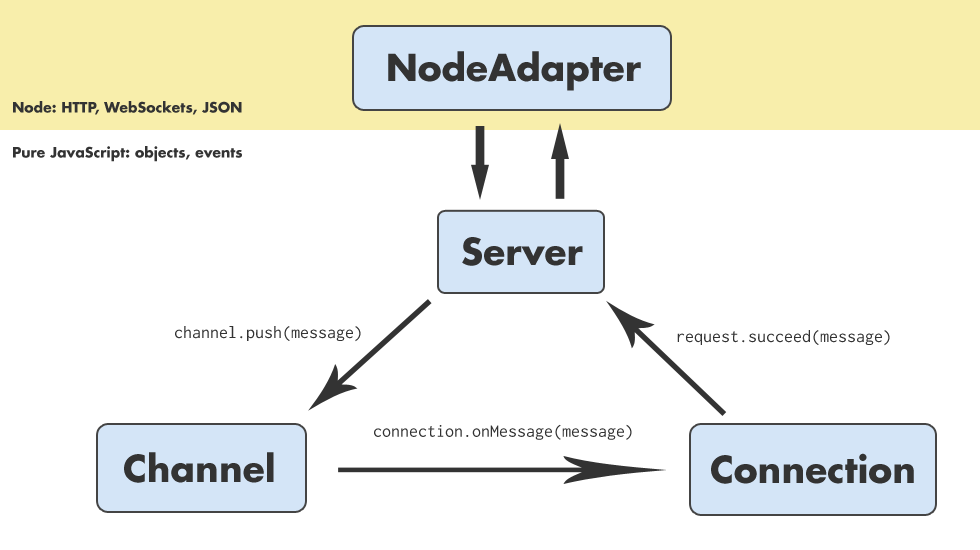
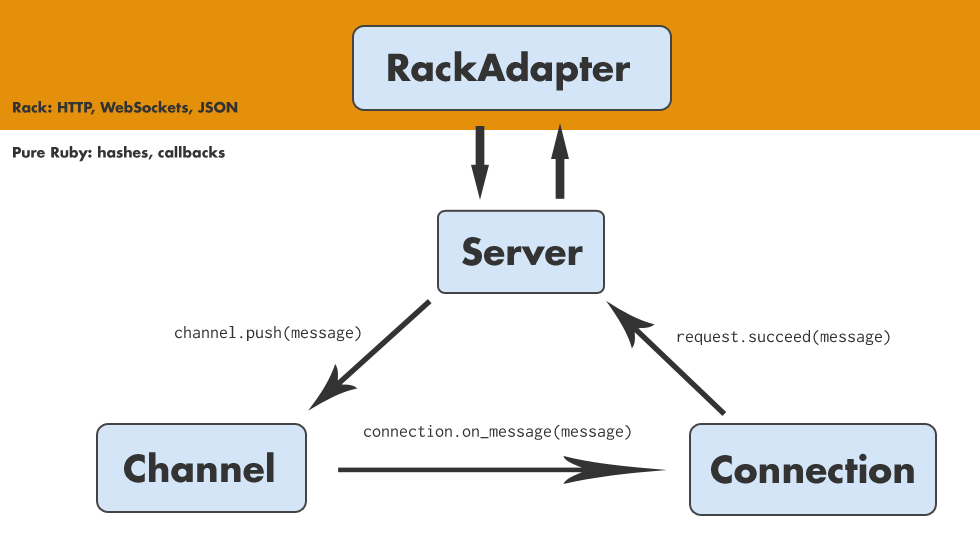
Faye RubyConf talk: more internals code, patterns demos.

Changed region(s): [[0.0, 0.0, 1.0, 0.3091], [0.3673, 0.7727, 0.6429, 0.8036]]

diff --git a/faye-rubyconf/style.css b/faye-rubyconf/style.css
@@ -28,6 +28,10 @@ pre {
   padding: 2em;
 }
 
+img {
+  border: 2px solid #e4900a;
+}
+
 .callout h1 {
   font-size: 10em;
   margin: 0;
@@ -40,4 +44,8 @@ pre {
 .center p {
   font-size: 3em;
   font-family: Times New Roman, serif;
+}
+
+#footer {
+  display: none;
 }

diff --git a/faye-rubyconf/internals/internals.md b/faye-rubyconf/internals/internals.md
@@ -31,7 +31,7 @@
 
     @@@ ruby
     # Incoming request:
-    # GET /?message={...}&jsonp=blah
+    # GET /bayeux?message={...}&jsonp=blah
     
     class Faye::RackAdapter
       def call(env)
@@ -66,18 +66,22 @@
 # Server
 
     @@@ ruby
-    # message = { 'channel'  => '/some/channel',
-    #             'clientId' => 'p780cnvop2',
+    # message = { 'id'       => '60esy10j',
+    #             'channel'  => '/some/channel',
+    #             'clientId' => '85b1xuzz',
     #             'data'     => {'hello' => 'world'}
     #           }
     
     class Faye::Server
       def process(message, &callback)
         case message['channel']
-          when '/meta/subscribe'
-            add_subscription(message, &callback)
+          
           when '/meta/connect'
             accept_connection(message, &callback)
+          
+          when '/meta/subscribe'
+            add_subscription(message, &callback)
+          
           else
             distribute_message(message, &callback)
         end
@@ -108,6 +112,24 @@
 
     @@@ ruby
     class Faye::Server
+      def add_subscription(message, &callback)
+        connection   = get_connection(message['clientId'])
+        channel_name = message['subscription']
+        channel      = @channels.get(channel_name)
+        
+        connection.subscribe(channel)
+        
+        callback.call 'id'         => message['id'],
+                      'successful' => true
+      end
+    end
+
+
+!SLIDE
+# Server
+
+    @@@ ruby
+    class Faye::Server
       def distribute_message(message, &callback)
         channel_name = message['channel']
         channels = @channels.glob(channel_name)
@@ -115,6 +137,9 @@
         channels.each do |channel|
           channel << message
         end
+        
+        callback.call 'id'         => message['id'],
+                      'successful' => true
       end
     end
 

diff --git a/faye-rubyconf/patterns/patterns.md b/faye-rubyconf/patterns/patterns.md
@@ -1,0 +1,76 @@
+!SLIDE
+# There’s a few bits missing
+
+    @@@ ruby
+    # Server#accept_connection
+    connection.callback(&callback)
+    
+    # Connection#subscribe
+    channel.add_listener(:receive) do |message|
+    
+    # Channel#<<
+    publish(:receive, message)
+    
+    # Connection#subscribe
+    succeed(message)
+
+
+!SLIDE bullets
+# Publisher
+
+* `#add_listener(event_type, &block)`
+* `#publish(event_type, data)`
+
+
+!SLIDE
+# Publisher
+
+    @@@ ruby
+    module Publisher
+      def add_listener(event_type, &block)
+        @callbacks ||= {}
+        @callbacks[event_type] ||= []
+        @callbacks[event_type] << block
+      end
+      
+      def publish(event_type, data)
+        return unless @callbacks and @callbacks[event_type]
+        @callbacks[event_type].each do |callback|
+          callback.call(data)
+        end
+      end
+    end
+
+
+!SLIDE bullets
+# Deferrable
+
+* `#callback(&block)`
+* `#succeed(data)`
+* `#defer()`
+
+
+!SLIDE
+# Deferrable
+
+    @@@ ruby
+    module Deferrable
+      def defer()
+        @status = :deferred
+        @value  = nil
+      end
+      
+      def succeed(data)
+        @status = :success
+        @value  = data
+        @callbacks.each { |callback| callback.call(data) }
+        @callbacks = []
+      end
+      
+      def callback(&block)
+        return block.call(@value) if @status == :success
+        @callbacks ||= []
+        @callbacks << block
+      end
+    end
+

diff --git a/faye-rubyconf/concepts/concepts.md b/faye-rubyconf/concepts/concepts.md
@@ -9,7 +9,12 @@
     class BlogPostsController < ApplicationController
       def create
         @post = BlogPost.create(params[:blog_post])
-        redirect_to dashboard_path if @post.save
+        if @post.save
+          flash[:notice] = 'Your post was created!'
+          redirect_to(dashboard_path)
+        else
+          render(:template => 'blog_posts/form')
+        end
       end
     end
 
@@ -59,5 +64,5 @@ hiding of state-process."
 
 * Keeps components decoupled
 * Expresses _why_ and _when_, not just _what_
-* Help with non-blocking I/O
+* Helps with non-blocking I/O
 
